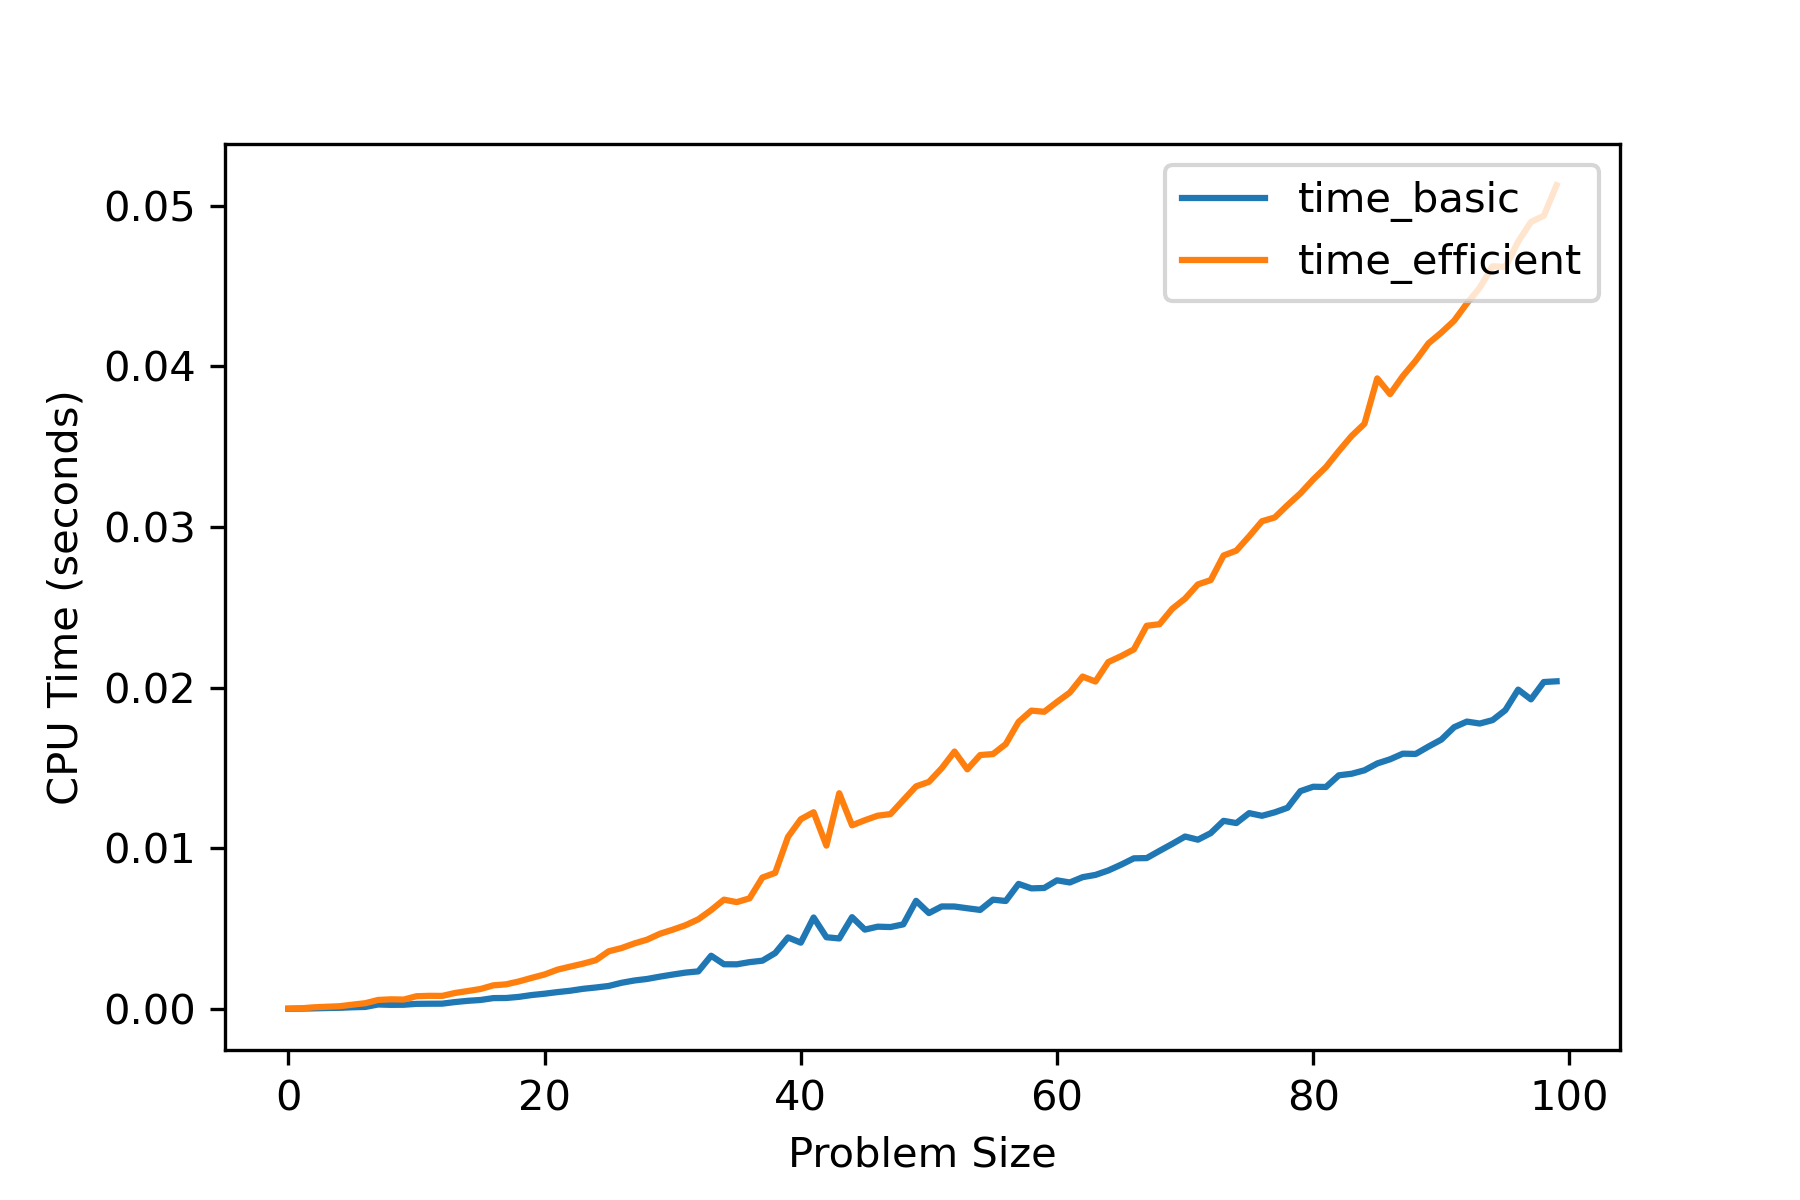
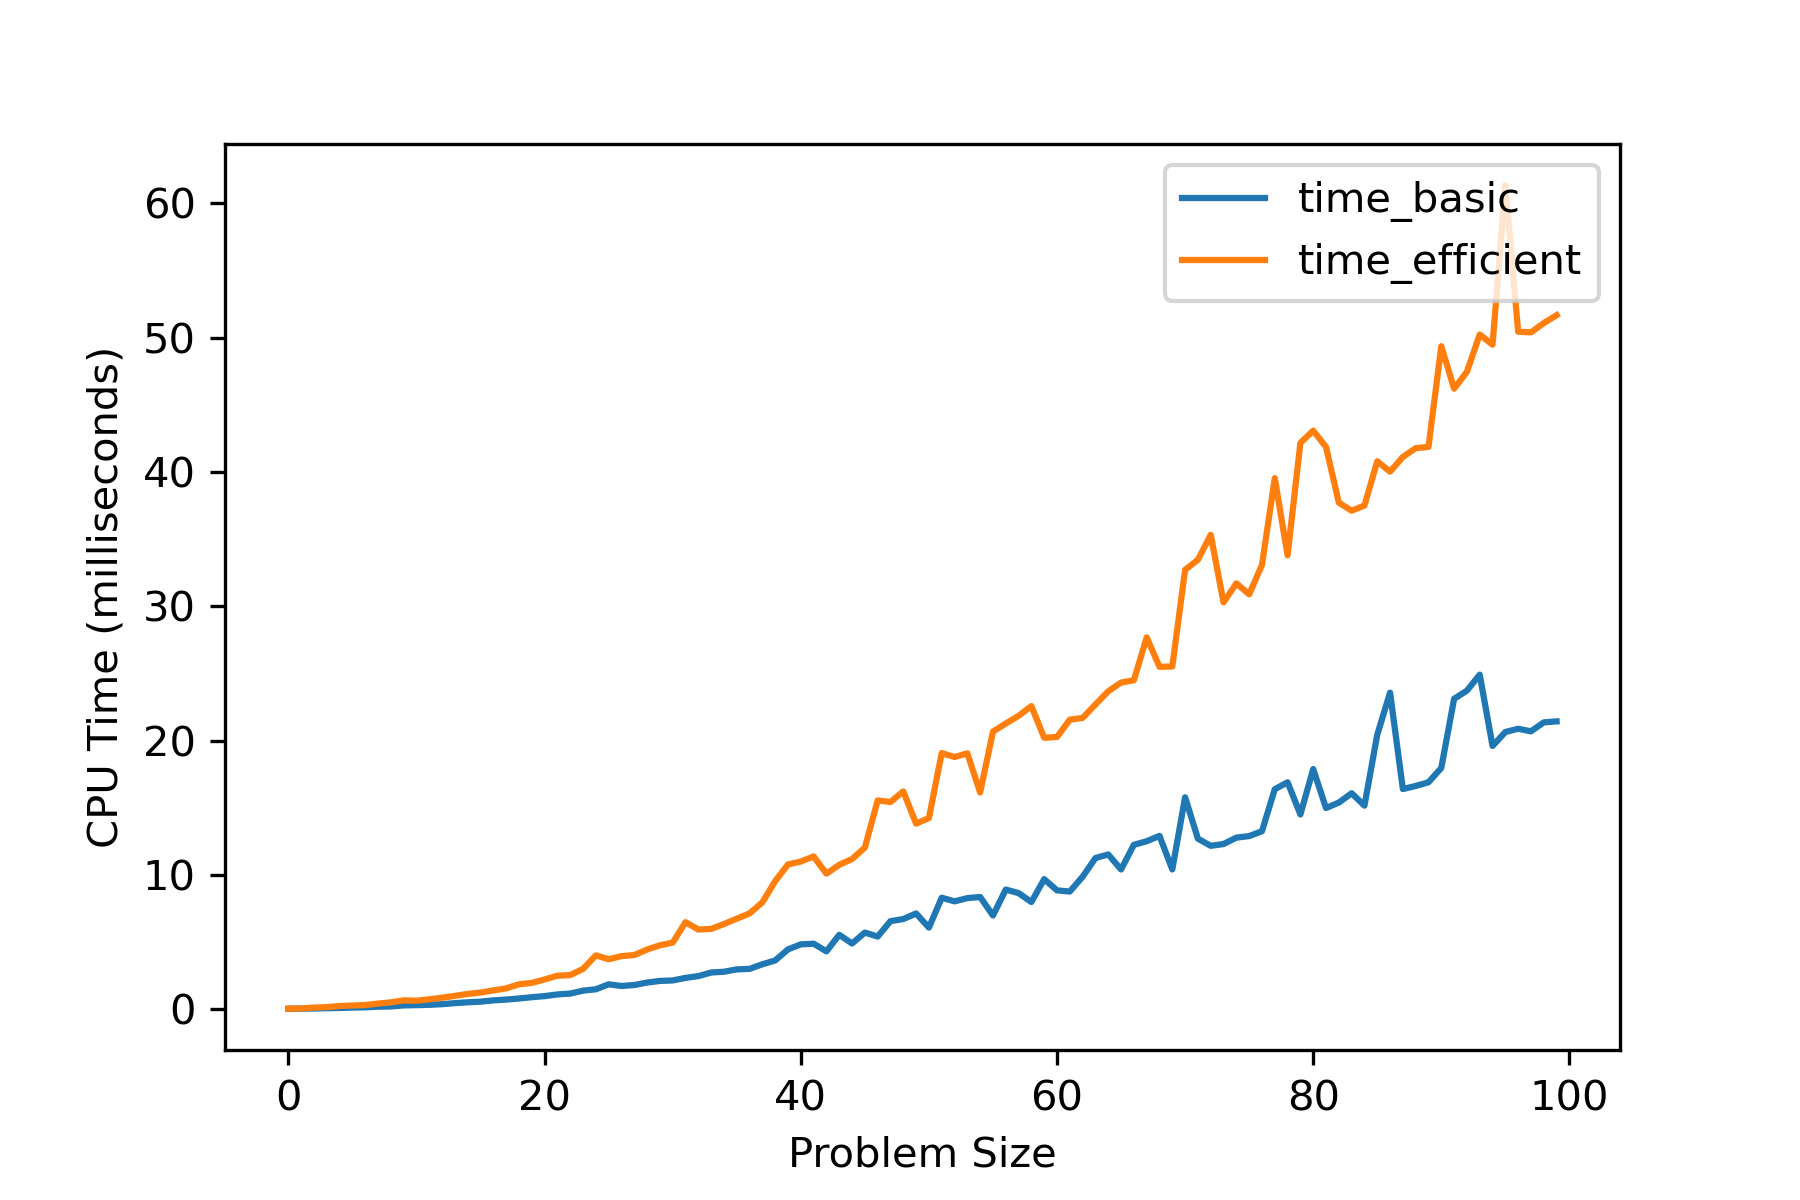
changes

diff --git a/graphs.py b/graphs.py
@@ -48,7 +48,7 @@ def stats_basic(X,Y):
         current_memory_list.append(current_memory / 10**3)
         peak_memory_list.append(peak_memory / 10**3)
     
-    return np.median(time_list), np.median(current_memory_list),np.median(peak_memory_list)
+    return np.median(time_list)*10**3, np.median(current_memory_list),np.median(peak_memory_list)
         
 def stats_efficient(X,Y):
     time_list = []
@@ -65,7 +65,7 @@ def stats_efficient(X,Y):
         current_memory_list.append(current_memory / 10**3)
         peak_memory_list.append(peak_memory / 10**3)
     
-    return np.median(time_list), np.median(current_memory_list),np.median(peak_memory_list)
+    return np.median(time_list)*10**3, np.median(current_memory_list),np.median(peak_memory_list)
 
 def generate_graphs():
 
@@ -83,8 +83,8 @@ def generate_graphs():
     time_comp_df = pd.DataFrame(time_comp, columns=['time_basic','time_efficient'])
     memory_comp_df = pd.DataFrame(memory_comp, columns=['peak_memory_basic','peak_memory_efficient'])
     
-    plt.plot(memory_comp_df["peak_memory_basic"], label = 'peak_memory_basic')
-    plt.plot(memory_comp_df["peak_memory_efficient"], label = 'peak_memory_efficient')
+    plt.plot(memory_comp_df["peak_memory_basic"], label = 'memory_basic')
+    plt.plot(memory_comp_df["peak_memory_efficient"], label = 'memory_efficient')
     plt.legend(loc="upper right")
     plt.xlabel('Problem Size')
     plt.ylabel('Memory Usage (KB)')
@@ -96,7 +96,7 @@ def generate_graphs():
     plt.plot(time_comp_df["time_efficient"], label = 'time_efficient')
     plt.legend(loc="upper right")
     plt.xlabel('Problem Size')
-    plt.ylabel('CPU Time (seconds)')
+    plt.ylabel('CPU Time (milliseconds)')
     plt.savefig('CPUPlot.png',dpi=300)
     plt.show()
     

diff --git a/efficient.py b/efficient.py
@@ -27,11 +27,12 @@ def read_and_generate_strings(input_file):
 
 def write_output(X_align, Y_align, start_time, current_memory, peak_memory):
     output_file = open("output.txt", "w")        
-    output_file.write('First 50 Elements X: ' + str(X_align[:50])  + ' Y: ' + str(Y_align[:50] )+'\n')
-    output_file.write('Last  50 Elements X: ' + str(X_align[-50:]) + ' Y: ' + str(Y_align[-50:])+'\n')
-    output_file.write(f"Time Taken: {time.time()-start_time}"+'\n')
-    output_file.write(f"Current memory usage is {current_memory / 10**3} KB; Peak was {peak_memory / 10**3} KB"+'\n')
+    output_file.write(str(X_align[:50])  + ' ' + str(Y_align[:50] )+'\n')
+    output_file.write(str(X_align[-50:]) + ' ' + str(Y_align[-50:])+'\n')
+    output_file.write(f"{time.time()-start_time}"+'\n')
+    output_file.write(f"{peak_memory}"+'\n')
     output_file.close()
+
 
 
 

diff --git a/basic.py b/basic.py
@@ -29,10 +29,10 @@ def read_and_generate_strings(input_file):
 
 def write_output(X_align, Y_align, start_time, current_memory, peak_memory):
     output_file = open("output.txt", "w")        
-    output_file.write('First 50 Elements X: ' + str(X_align[:50])  + ' Y: ' + str(Y_align[:50] )+'\n')
-    output_file.write('Last  50 Elements X: ' + str(X_align[-50:]) + ' Y: ' + str(Y_align[-50:])+'\n')
-    output_file.write(f"Time Taken: {time.time()-start_time}"+'\n')
-    output_file.write(f"Current memory usage is {current_memory / 10**3} KB; Peak was {peak_memory / 10**3} KB"+'\n')
+    output_file.write(str(X_align[:50])  + ' ' + str(Y_align[:50] )+'\n')
+    output_file.write(str(X_align[-50:]) + ' ' + str(Y_align[-50:])+'\n')
+    output_file.write(f"{time.time()-start_time}"+'\n')
+    output_file.write(f"{peak_memory}"+'\n')
     output_file.close()
 
 
